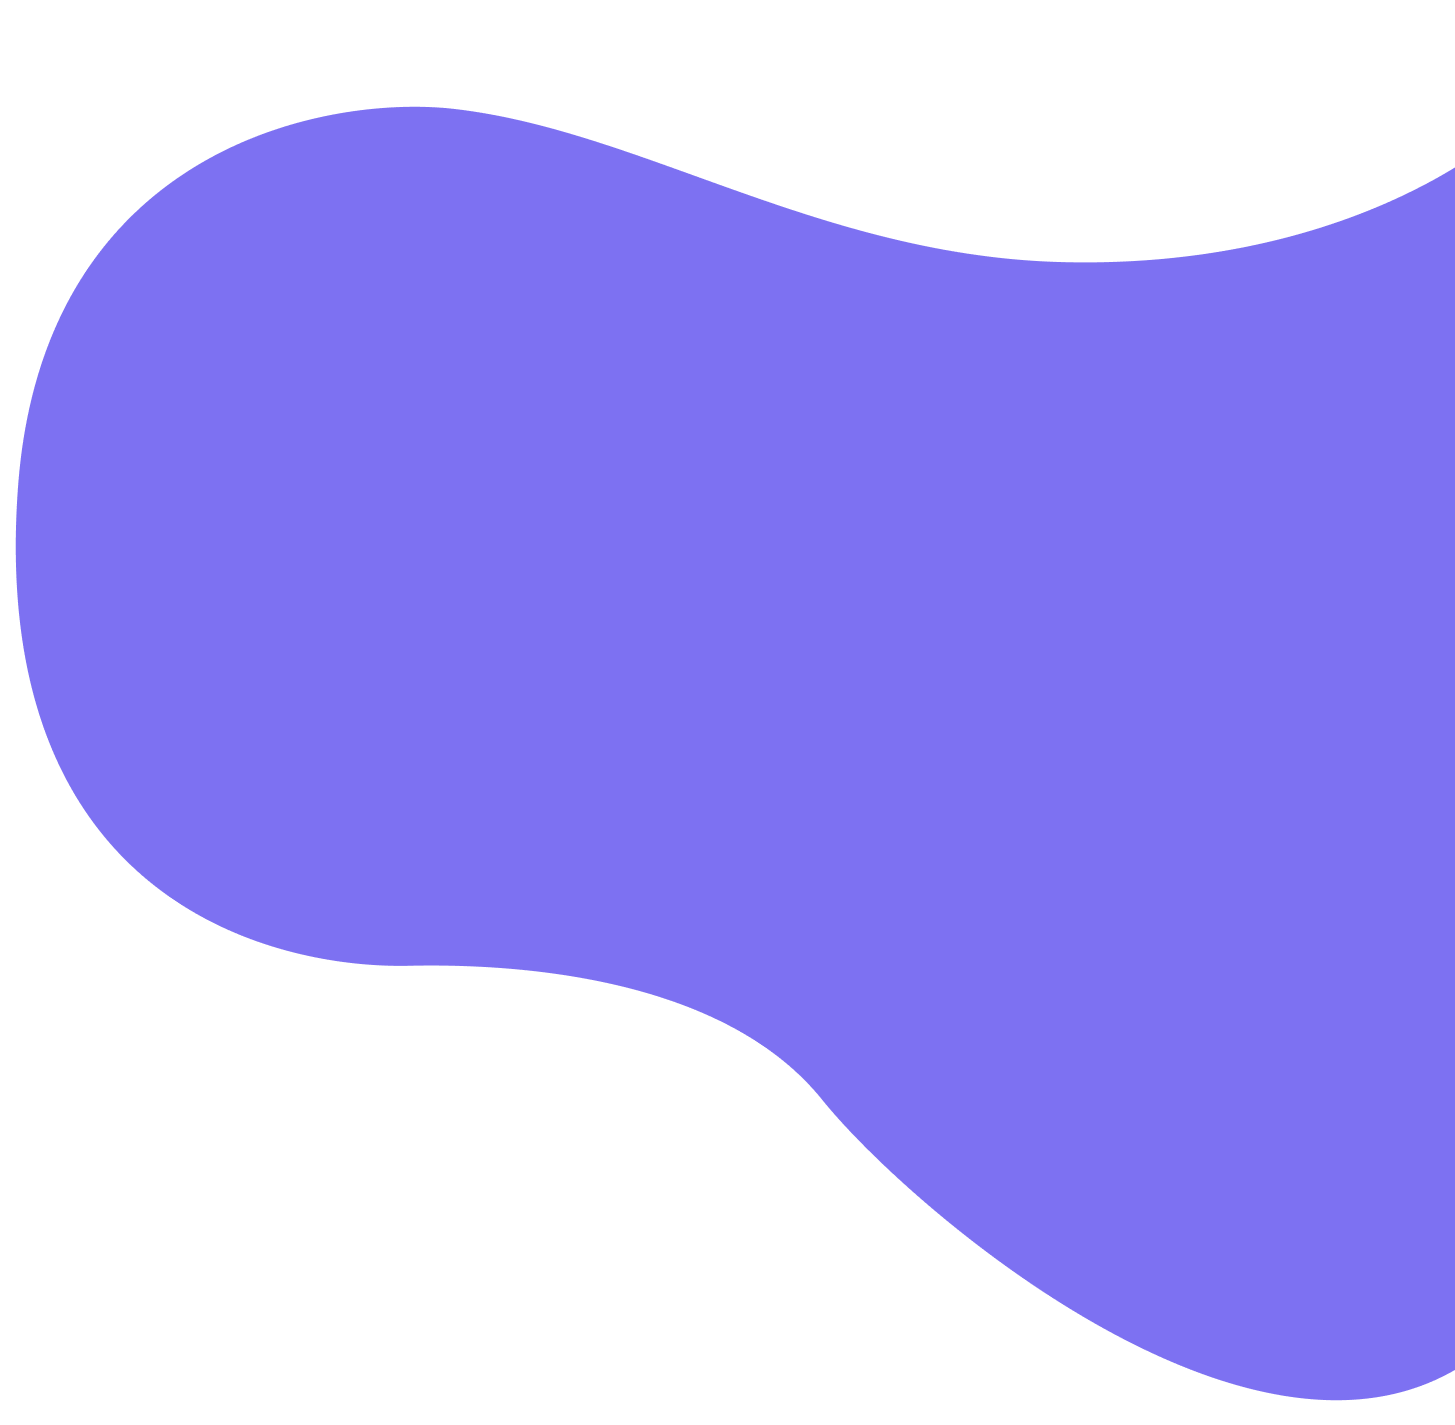
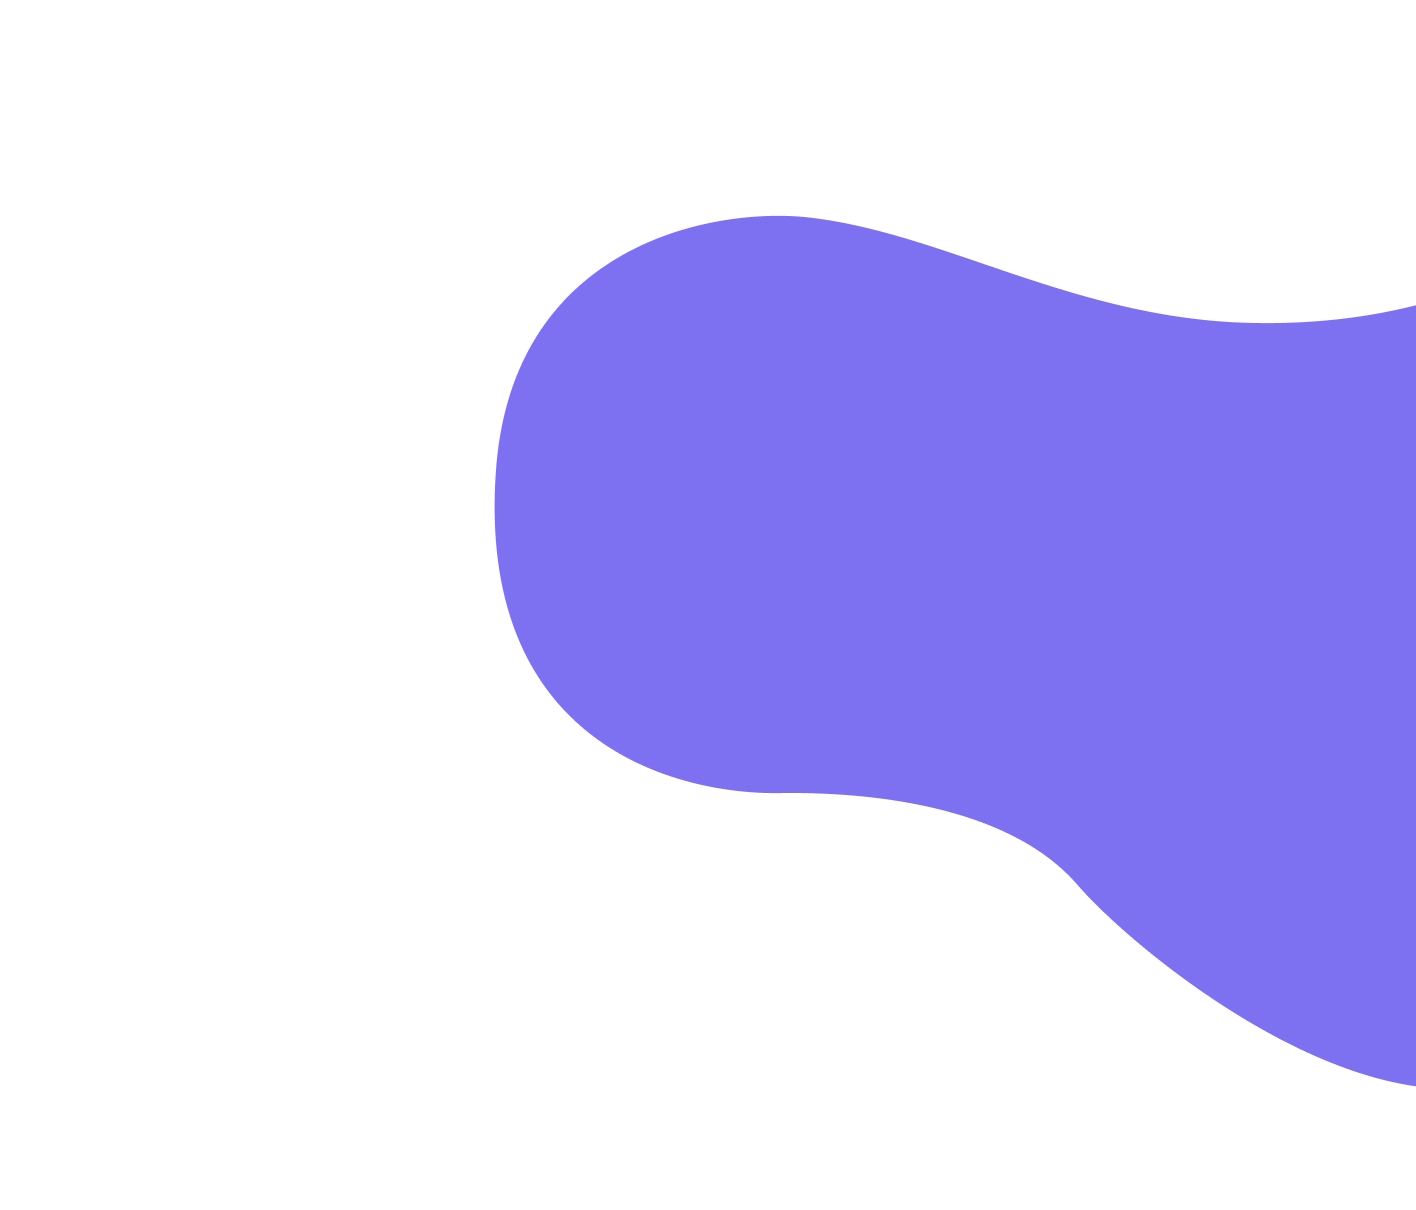
changes

diff --git a/src/pages/for-students.js b/src/pages/for-students.js
@@ -13,7 +13,11 @@ const StyledH1 = styled.h1`
 
 const StyledH12 = styled.h1`
   ${tw`text-white text-7xl absolute px-48`}
-  top: 260px;
+  top: 360px;
+`
+
+const StyledH2 = styled.h2`
+  ${tw`pt-8`}
 `
 
 const StyledH1Workshops = styled.h1`
@@ -45,23 +49,15 @@ const SectionText = styled.div`
 `
 
 const StyledList = tw.ul`
-  list-disc list-inside
+  list-disc list-inside py-8 pl-8
 `
 
 const NumberedList = tw.ul`
-  list-decimal list-inside
+  list-decimal list-inside py-8 pl-8
 `
 
 const ButtonDiv = styled.div`
   ${tw`text-center mt-8`}
-`
-
-const Events = tw.div`
-  flex flex-col space-y-8 pr-16 pt-8
-`
-
-const EventCard = styled.div`
-  ${tw`border-2 border-purple rounded p-8 hover:animate-pulse flex`}
 `
 
 const StyledButton = styled(props => <Link {...props} />)`
@@ -96,7 +92,7 @@ const ForStudentsPage = () => {
     query {
       placeholderImage: file(relativePath: { eq: "yellow-blob-2.png" }) {
         childImageSharp {
-          fixed(width: 1000) {
+          fixed(width: 800) {
             ...GatsbyImageSharpFixed
           }
         }
@@ -130,10 +126,10 @@ const ForStudentsPage = () => {
         <StyledDiv>
           <SectionText>
             <StyledPLeft>
-              Human-Centered Design (HCD) is an emerging practice
-              and is becoming an increasingly valued and sought-after skill in
-              all industries. In short, it is a framework for problem solving that revolves
-              around, well, humans. While Princeton doesn’t offer a
+              Human-Centered Design (HCD) is an emerging practice and is
+              becoming an increasingly valued and sought-after skill in all
+              industries. In short, it is a framework for problem solving that
+              revolves around, well, humans. While Princeton doesn’t offer a
               clear academic path for design, it houses designers from far and
               wide, and ResInDe provides the space for them to work together.
             </StyledPLeft>
@@ -161,23 +157,25 @@ const ForStudentsPage = () => {
                   To work on meaningful projects that generate a lasting impact
                   on local communities.
                 </li>
+                <li>To amp up your resume and portfolio.</li>
                 <li>
-                  To amp up your resume and portfolio.
-                </li>
-                <li>
-                  To join a community of designers, entrepreneurs, and innovative thinkers.
+                  To join a community of designers, entrepreneurs, and
+                  innovative thinkers.
                 </li>
               </NumberedList>
               <br />
-              In addition to working on projects, you’ll join a community of designers,
-              entrepreneurs, and innovative thinkers that:
+              In addition to working on projects, you’ll join a community of
+              designers, entrepreneurs, and innovative thinkers that:
               <StyledList>
                 <li>Gets excited about innovation</li>
-                <li>Constantly brainstorms new ways to better our communities</li>
+                <li>
+                  Constantly brainstorms new ways to better our communities
+                </li>
                 <li>Attends fun social events!</li>
               </StyledList>
               <br />
-              If you're interested, we'd love to meet you! Come join us at our Spring 2021 Open House.
+              If you're interested, we'd love to meet you! Come join us at our
+              Spring 2021 Open House.
               <ButtonDiv>
                 <StyledButton to="https://forms.gle/6YrcssGhsisKTE9m7">
                   apply today
@@ -189,13 +187,14 @@ const ForStudentsPage = () => {
         <StyledDiv>
           <SectionText>
             <StyledPLeft>
-              ResInDe's long-term goal is to cultivate a conversation around design and innovative
-              thinking at Princeton, so we offer opportunities for all students to gain exposure into the design world.
-              Check out our past events below, and subscribe to our newsletter to receive updates about our future
-              events!
+              ResInDe's long-term goal is to cultivate a conversation around
+              design and innovative thinking at Princeton, so we offer
+              opportunities for all students to gain exposure into the design
+              world. Check out our past events below, and subscribe to our
+              newsletter to receive updates about our future events!
               <br />
               <div>
-                <h2>Past Workshops</h2>
+                <StyledH2>Past Workshops</StyledH2>
                 <StyledList>
                   <li>
                     <StyledLink to="https://drive.google.com/drive/u/2/folders/1eDNLrpn7Jz1cWsiQolwJ0Yk22FM-jTey">
@@ -220,12 +219,12 @@ const ForStudentsPage = () => {
                 </StyledList>
               </div>
               <a
-            href="https://google.us2.list-manage.com/subscribe?u=f742a956f5b0d1eca7c1703e3&id=59b6bf43e4"
-            target="_blank"
-            rel="noopener noreferrer"
-          >
-            <StyledButton>subscribe to newsletter</StyledButton>
-          </a>
+                href="https://google.us2.list-manage.com/subscribe?u=f742a956f5b0d1eca7c1703e3&id=59b6bf43e4"
+                target="_blank"
+                rel="noopener noreferrer"
+              >
+                <StyledButton>subscribe to newsletter</StyledButton>
+              </a>
             </StyledPLeft>
           </SectionText>
           <div style={{ position: "relative" }}>

diff --git a/src/pages/about.js b/src/pages/about.js
@@ -2,7 +2,6 @@ import React from "react"
 import SEO from "../components/seo"
 import tw, { styled } from "twin.macro"
 import { useStaticQuery, graphql } from "gatsby"
-import justLogo from "../images/just-logo.svg"
 import Img from "gatsby-image"
 import ReactTooltip from "react-tooltip"
 
@@ -47,11 +46,7 @@ const Header2 = styled.h1`
 `
 
 const StyledLogosDiv = styled.div`
-  ${tw`grid grid-cols-2 justify-items-center gap-y-16`}
-  span {
-    visibility: hidden;
-    padding: 5px 0;
-  }
+  ${tw`grid justify-items-center gap-y-16`}
 `
 
 const SectionText = styled.div`
@@ -59,7 +54,7 @@ const SectionText = styled.div`
 `
 
 const StyledList = tw.ul`
-  list-disc list-inside text-lg self-center mobile:static right-48 absolute
+  list-disc list-inside text-lg self-center mobile:static text-center py-8 pl-8
 `
 
 const AboutPage = () => {
@@ -74,7 +69,7 @@ const AboutPage = () => {
       }
       yellowBlob: file(relativePath: { eq: "yellow-blob-2.png" }) {
         childImageSharp {
-          fixed(width: 1000) {
+          fixed(width: 800) {
             ...GatsbyImageSharpFixed
           }
         }
@@ -110,12 +105,13 @@ const AboutPage = () => {
         <StyledHeaderDiv>
           <h1>About Us</h1>
           <p>
-            ResInDe is Princeton University's premier student-run design consultancy. Short for
-            Research, Innovation, and Design, ResInDe is founded on the core design principles
-            of empathy and human-centered design. Our team understands the value of problem-solving
-            and innovating with intention, and our mission is to provide impactful user experience
-            solutions to the Princeton student and local community through user research and
-            digital implementation. 
+            ResInDe is Princeton University's premier student-run design
+            consultancy. Short for Research, Innovation, and Design, ResInDe is
+            founded on the core design principles of empathy and human-centered
+            design. Our team understands the value of problem-solving and
+            innovating with intention, and our mission is to provide impactful
+            user experience solutions to the Princeton student and local
+            community through user research and digital implementation.
           </p>
         </StyledHeaderDiv>
         <StyledDiv>
@@ -142,25 +138,8 @@ const AboutPage = () => {
                 <Img fixed={data.usgLogo.childImageSharp.fixed} />
               </a>
               <ReactTooltip id="tiger-apps" place="top">
-                ResInDe is working with USG Tiger Apps on a redesign of TigerBook
-                and Princeton Courses.
-              </ReactTooltip>
-
-              <a
-                href="https://just.cs.princeton.edu/"
-                target="_blank"
-                rel="noreferrer"
-                data-tip
-                data-for="just"
-              >
-                <img
-                  width="225px"
-                  src={justLogo}
-                  alt="Logo that says JUST in white letters, except the u is gold and has an underline."
-                />
-              </a>
-              <ReactTooltip id="just" place="top">
-                Technology for a Just Society (JuST)
+                ResInDe is working with USG Tiger Apps on a redesign of
+                TigerBook and Princeton Courses.
               </ReactTooltip>
               <a
                 href="https://www.princetoncoscouncil.com/"

diff --git a/src/pages/contact.js b/src/pages/contact.js
@@ -10,20 +10,31 @@ const StyledInput = styled.input`
 const StyledTextarea = styled.textarea`
   ${tw`rounded-xl my-5 px-6 py-6 block w-full outline-none border-purple border-2`}
 `
-const StyledButton = styled.button`
+const StyledWhiteButton = styled.button`
   ${tw`border border-white rounded-full text-white py-2 px-8
   uppercase hover:bg-white hover:text-purple transition focus:outline-none`}
   cursor: none;
 `
+
+const StyledButton = styled.button`
+  ${tw`border border-black rounded-full text-black py-2 px-8
+  uppercase hover:bg-black hover:text-white transition focus:outline-none`}
+  cursor: none;
+`
 const Wrapper = styled.div`
   ${tw`mobile:px-8 px-48 mt-48`}
-  height: 1300px;
+  height: 1100px;
 `
 const StyledForm = styled.form`
   ${tw`text-right`}
 `
 const WhiteText = styled.div`
-  ${tw`text-white text-2xl font-bold mb-4 py-5 max-w-lg`}
+  ${tw`text-black text-2xl font-bold mb-4 py-5`}
+`
+
+const Center = styled.div`
+  ${tw`text-center`}
+  width: 300px;
 `
 
 const ContactPage = () => {
@@ -32,8 +43,8 @@ const ContactPage = () => {
       query {
         bgBlob: file(relativePath: { eq: "purple-blob-3.png" }) {
           childImageSharp {
-            fluid(quality: 100) {
-              ...GatsbyImageSharpFluid
+            fixed {
+              ...GatsbyImageSharpFixed
             }
           }
         }
@@ -44,11 +55,12 @@ const ContactPage = () => {
   return (
     <div>
       <SEO title="Contact Us" />
-      <BackgroundImage Tag="section" fluid={data.bgBlob.childImageSharp.fluid}>
+      <BackgroundImage Tag="section" fluid={data.bgBlob.childImageSharp.fixed}>
         <Wrapper>
           <h1>Contact Us</h1>
           <p>
-            Interested in working with us or joining us? Shoot us a message below—we're excited to share our passions with you!
+            Interested in working with us or joining us? Shoot us a message
+            below—we're excited to share our passions with you!
           </p>
           <StyledForm name="contact" method="POST" netlify>
             <div>
@@ -76,20 +88,22 @@ const ContactPage = () => {
               ></StyledTextarea>
             </div>
             <div>
-              <StyledButton type="submit">submit</StyledButton>
+              <StyledWhiteButton type="submit">submit</StyledWhiteButton>
             </div>
           </StyledForm>
-          <WhiteText>
-            Join our mailing list to be notified of all ResInDe events
-            and to receive monthly updates on the design community!
-          </WhiteText>
-          <a
-            href="https://google.us2.list-manage.com/subscribe?u=f742a956f5b0d1eca7c1703e3&id=59b6bf43e4"
-            target="_blank"
-            rel="noopener noreferrer"
-          >
-            <StyledButton>subscribe</StyledButton>
-          </a>
+          <Center>
+            <WhiteText>
+              Join our mailing list for monthly updates about opportunities and
+              what's going on in ResInDe!
+            </WhiteText>
+            <a
+              href="https://google.us2.list-manage.com/subscribe?u=f742a956f5b0d1eca7c1703e3&id=59b6bf43e4"
+              target="_blank"
+              rel="noopener noreferrer"
+            >
+              <StyledButton>subscribe</StyledButton>
+            </a>
+          </Center>
         </Wrapper>
       </BackgroundImage>
     </div>

diff --git a/src/components/about-section.js b/src/components/about-section.js
@@ -31,7 +31,7 @@ const StyledButton = styled(props => <Link {...props} />)`
 `
 
 const StyledList = tw.ul`
-  list-disc list-inside
+  list-disc list-inside py-8 pl-8
 `
 
 const AboutSection = props => {
@@ -59,12 +59,14 @@ const AboutSection = props => {
       </div>
       <SectionText>
         <StyledP>
-          ResInDe is Princeton University's premier student-run design consultancy. Short for
-          Research, Innovation, and Design, ResInDe is founded on the core design principles
-          of empathy and human-centered design. Our team understands the value of problem-solving
-          and innovating with intention, and our mission is to provide impactful user experience
-          solutions to the Princeton student and local community through user research and
-          digital implementation. We currently specialize in the following areas:
+          ResInDe is Princeton University's premier student-run design
+          consultancy. Short for Research, Innovation, and Design, ResInDe is
+          founded on the core design principles of empathy and human-centered
+          design. Our team understands the value of problem-solving and
+          innovating with intention, and our mission is to provide impactful
+          user experience solutions to the Princeton student and local community
+          through user research and digital implementation. We currently
+          specialize in the following areas:
           <StyledList>
             <li>User Research</li>
             <li>Product Strategy</li>

diff --git a/src/components/header.js b/src/components/header.js
@@ -8,7 +8,7 @@ import NavLink from "./navlink"
 import MobileNav from "./mobile-nav"
 
 const StyledHeader = tw.header`
-  pt-8 mobile:px-8 px-20 mobile:static fixed mobile:top-auto top-0 w-full bg-white z-50 bg-opacity-90
+  pt-2 mobile:px-8 px-20 mobile:static fixed mobile:top-auto top-0 w-full bg-white z-50 bg-opacity-90
 `
 
 const StyledNav = tw.nav`
